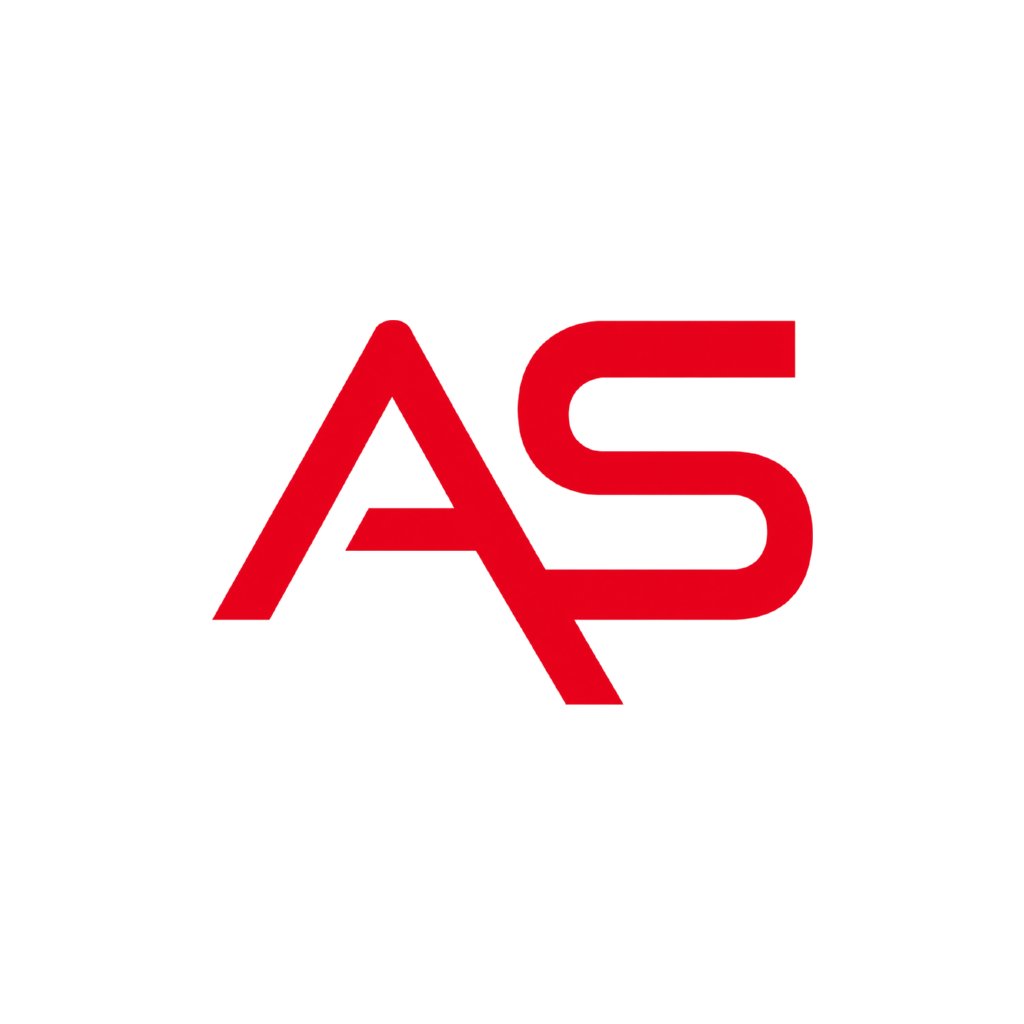
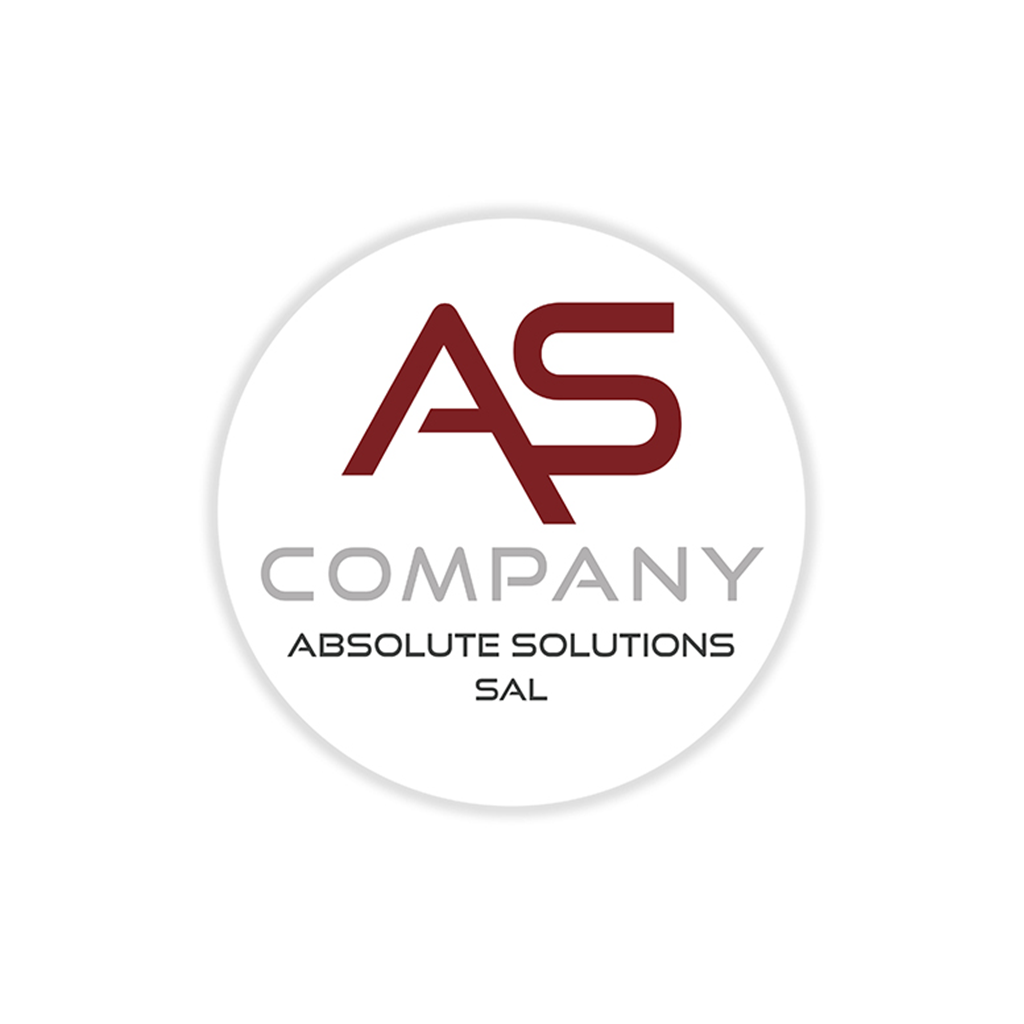
feat(mobile): update app branding assets and splash screen configuration

diff --git a/mobile/src/providers/AppProviders.jsx b/mobile/src/providers/AppProviders.jsx
@@ -1,10 +1,3 @@
-// The single provider stack the whole app is wrapped in (from the root layout):
-//   Theme → Redux (cart) → React Query (server cache, persisted) → Account → Content
-//
-// React Query is persisted to AsyncStorage: on relaunch the catalog paints
-// instantly from the last snapshot while a background refetch brings it fresh.
-// Cart persistence: hydrate from AsyncStorage on mount, then mirror changes back.
-
 import { useEffect, useRef, useState } from 'react';
 import { Provider as ReduxProvider } from 'react-redux';
 import { QueryClient } from '@tanstack/react-query';

diff --git a/mobile/README.md b/mobile/README.md
@@ -243,16 +243,33 @@ npm run web        # run in the browser
   maps the app's semantic icon names.
 - **Images:** `expo-image` via `src/components/RemoteImage.jsx` (caching +
   branded fallback).
-- **Splash:** `assets/as-logo-full-clear.png` — the full brand lockup with the
-  flat `#F7F7F7` studio backdrop keyed out, so it sits on the white splash
-  without a grey card behind it. Source of truth is `as-logo-full.png`; the
-  `-clear` suffix means "background removed", same as `as-logo-clear.png`.
-  `imageWidth` is **per platform on purpose**: expo centres the logo on a 288dp
-  canvas and hands it to Android 12's `windowSplashScreenAnimatedIcon`, which
-  only shows the inner **192dp circle** — the lockup's widest ink sits at
-  `0.527 x imageWidth` from centre, so anything over **182dp clips "COMPPANY"**
-  on Android. iOS draws the same image into a plain centred aspect-fit frame
-  with no mask, so it gets the roomier 260dp. Re-measure that ratio if the
-  artwork changes.
+- **App icon / splash / favicon:** all four are generated from one master,
+  `assets/as-logo.jpg` (512x512, circular badge on pure `#FFFFFF`, ink spanning
+  **91%** of the canvas). Keep that file as the source of truth and regenerate
+  rather than hand-editing the PNGs:
+  - `icon.png` (1024) and `favicon.png` (512) — full-bleed. The badge's widest
+    ink sits at the edge *midpoints*, which clear iOS's squircle mask, so no
+    padding is needed.
+  - `adaptive-icon.png` (1024) — Android masks an adaptive foreground down to a
+    centred circle of roughly **61%** of the canvas, so here the logo is scaled
+    to **60%**; at full bleed the "ABSOLUTE SOLUTIONS SAL" line is cut off.
+  - `splash-icon.png` (1024) — full-bleed, on the white `backgroundColor`.
+    `imageWidth` is now a **single value for both platforms**: expo centres the
+    logo on a 288dp canvas and hands it to Android 12's
+    `windowSplashScreenAnimatedIcon`, which only shows the inner **192dp
+    circle**. The old artwork was a wide lockup whose ink reached
+    `0.527 x imageWidth` from centre, so it needed a smaller Android override;
+    this badge is square and circular, reaching only `0.455 x imageWidth`, which
+    puts the Android ceiling at **~211dp**. At 190dp the ink is 173dp — a
+    comfortable margin inside the mask — so the per-platform split is gone.
+    Re-measure that ratio if the artwork changes.
+  - **Not** regenerated from it: `notification-icon.png`. Android renders that
+    one as a flat white silhouette, so it has to stay a transparent mono glyph —
+    the colour badge would come out as a white blob.
+- **In-app logos** are separate from the launcher icon and unchanged:
+  `as-logo-clear.png` and `as-store-logo-clear.png`, used by `AppHeader`,
+  `BrandBar` and `ComingSoon`. The `-clear` suffix means "background removed";
+  each has an unkeyed source of truth alongside it (`as-logo.png`,
+  `as-store-logo.png`).
 - Building a native binary (EAS): `npx eas build` after configuring an Expo
   account.
